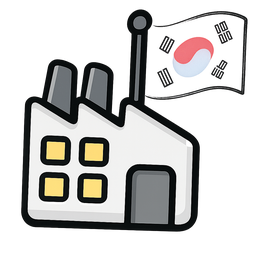
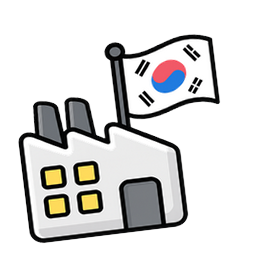
Taegukgi tile: fill transparent flag white with opaque white; keep doing it for future runs
Claude-Session: https://claude.ai/code/session_019QwctBLnb4UTXMJBnbargq

diff --git a/scripts/fill-holes.py b/scripts/fill-holes.py
@@ -1,0 +1,39 @@
+# 투명 배경으로 뽑을 때 그림 안쪽의 흰 부분(태극기 바탕 등)까지 투명해지는 문제를 고침:
+# 바깥 테두리와 이어지지 않은, 그림 속에 갇힌 투명한 구멍을 불투명한 흰색으로 채움
+# 쓰는 법: python3 scripts/fill-holes.py assets/tile-korea-a.png assets/tile-korea-b.png ...
+import sys
+from collections import deque
+from PIL import Image
+
+def fill(path, thr=200):
+    im = Image.open(path).convert('RGBA')
+    w, h = im.size
+    px = im.load()
+    clear = lambda x, y: px[x, y][3] < thr
+    outside = bytearray(w * h)
+    q = deque()
+    for x in range(w):
+        for y in (0, h - 1):
+            if clear(x, y) and not outside[y * w + x]: outside[y * w + x] = 1; q.append((x, y))
+    for y in range(h):
+        for x in (0, w - 1):
+            if clear(x, y) and not outside[y * w + x]: outside[y * w + x] = 1; q.append((x, y))
+    while q:
+        x, y = q.popleft()
+        for nx, ny in ((x + 1, y), (x - 1, y), (x, y + 1), (x, y - 1)):
+            if 0 <= nx < w and 0 <= ny < h and not outside[ny * w + nx] and clear(nx, ny):
+                outside[ny * w + nx] = 1; q.append((nx, ny))
+    n = 0
+    for y in range(h):
+        for x in range(w):
+            r, g, b, a = px[x, y]
+            if a < 255 and not outside[y * w + x]:
+                # 반투명한 부분은 흰 바탕 위에 겹친 색으로
+                k = a / 255
+                px[x, y] = (round(r * k + 255 * (1 - k)), round(g * k + 255 * (1 - k)), round(b * k + 255 * (1 - k)), 255)
+                n += 1
+    im.save(path, optimize=True)
+    print(path, 'filled', n)
+
+for p in sys.argv[1:]:
+    fill(p)
